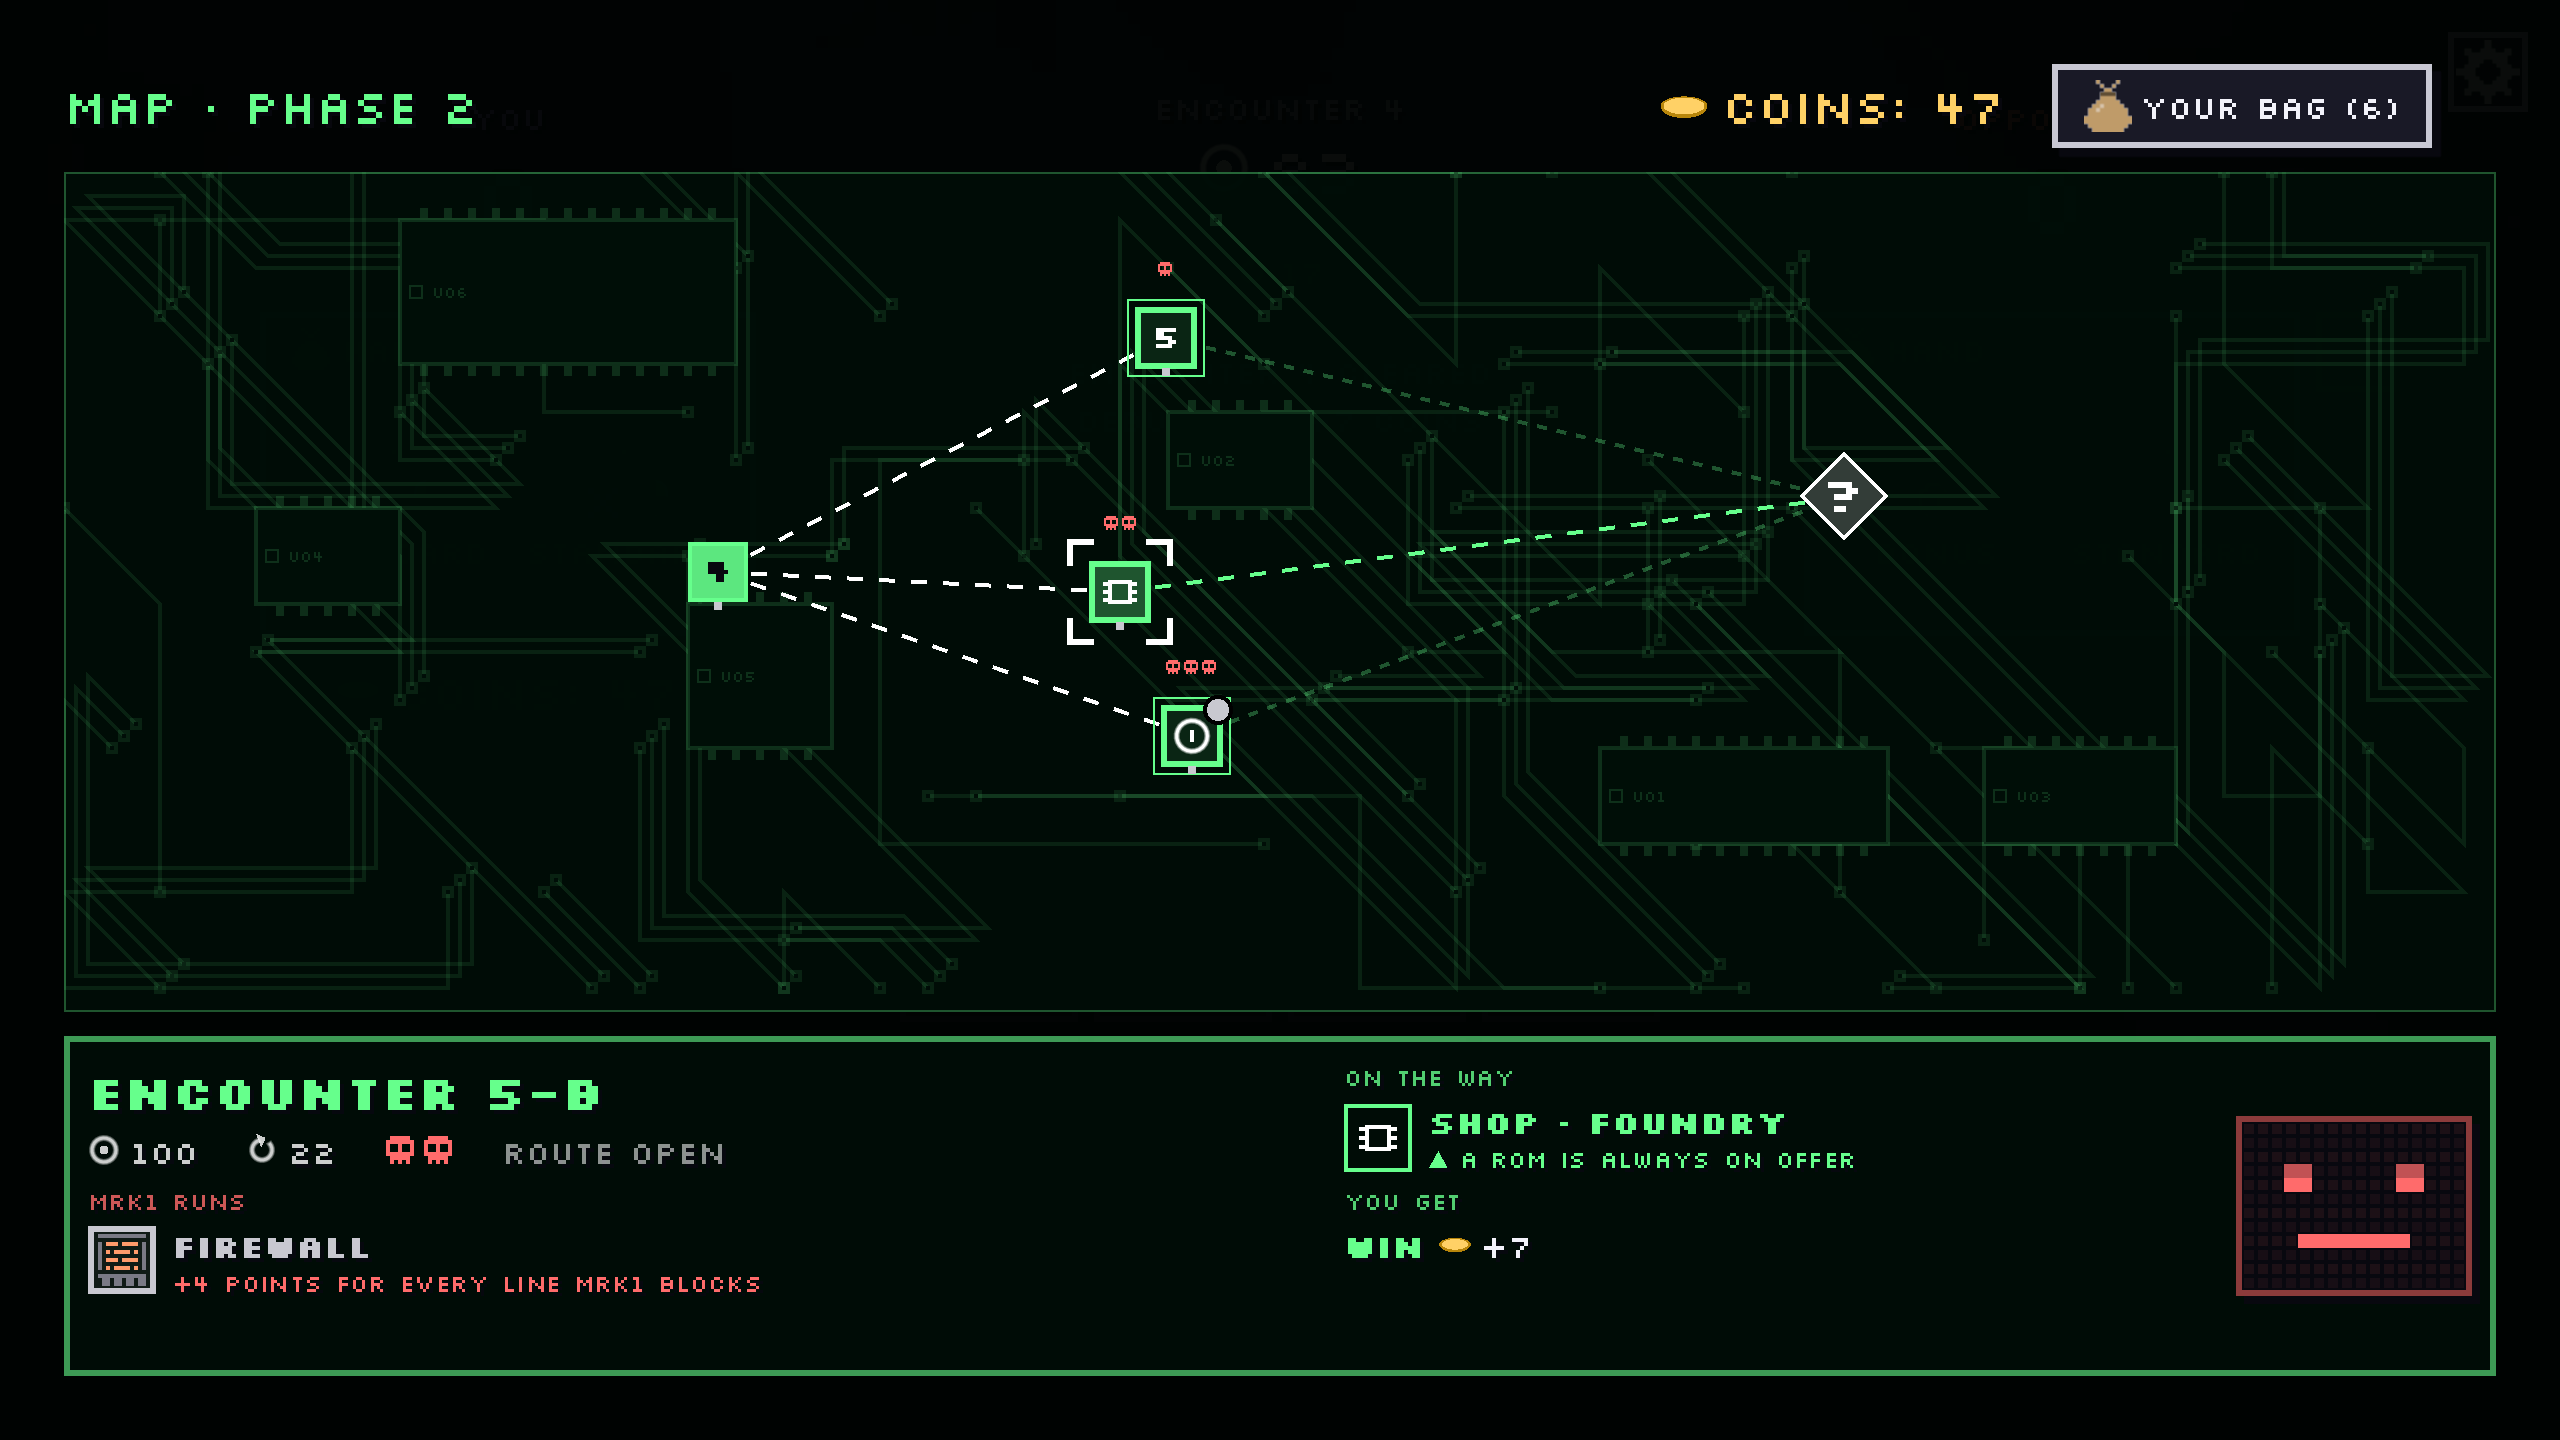
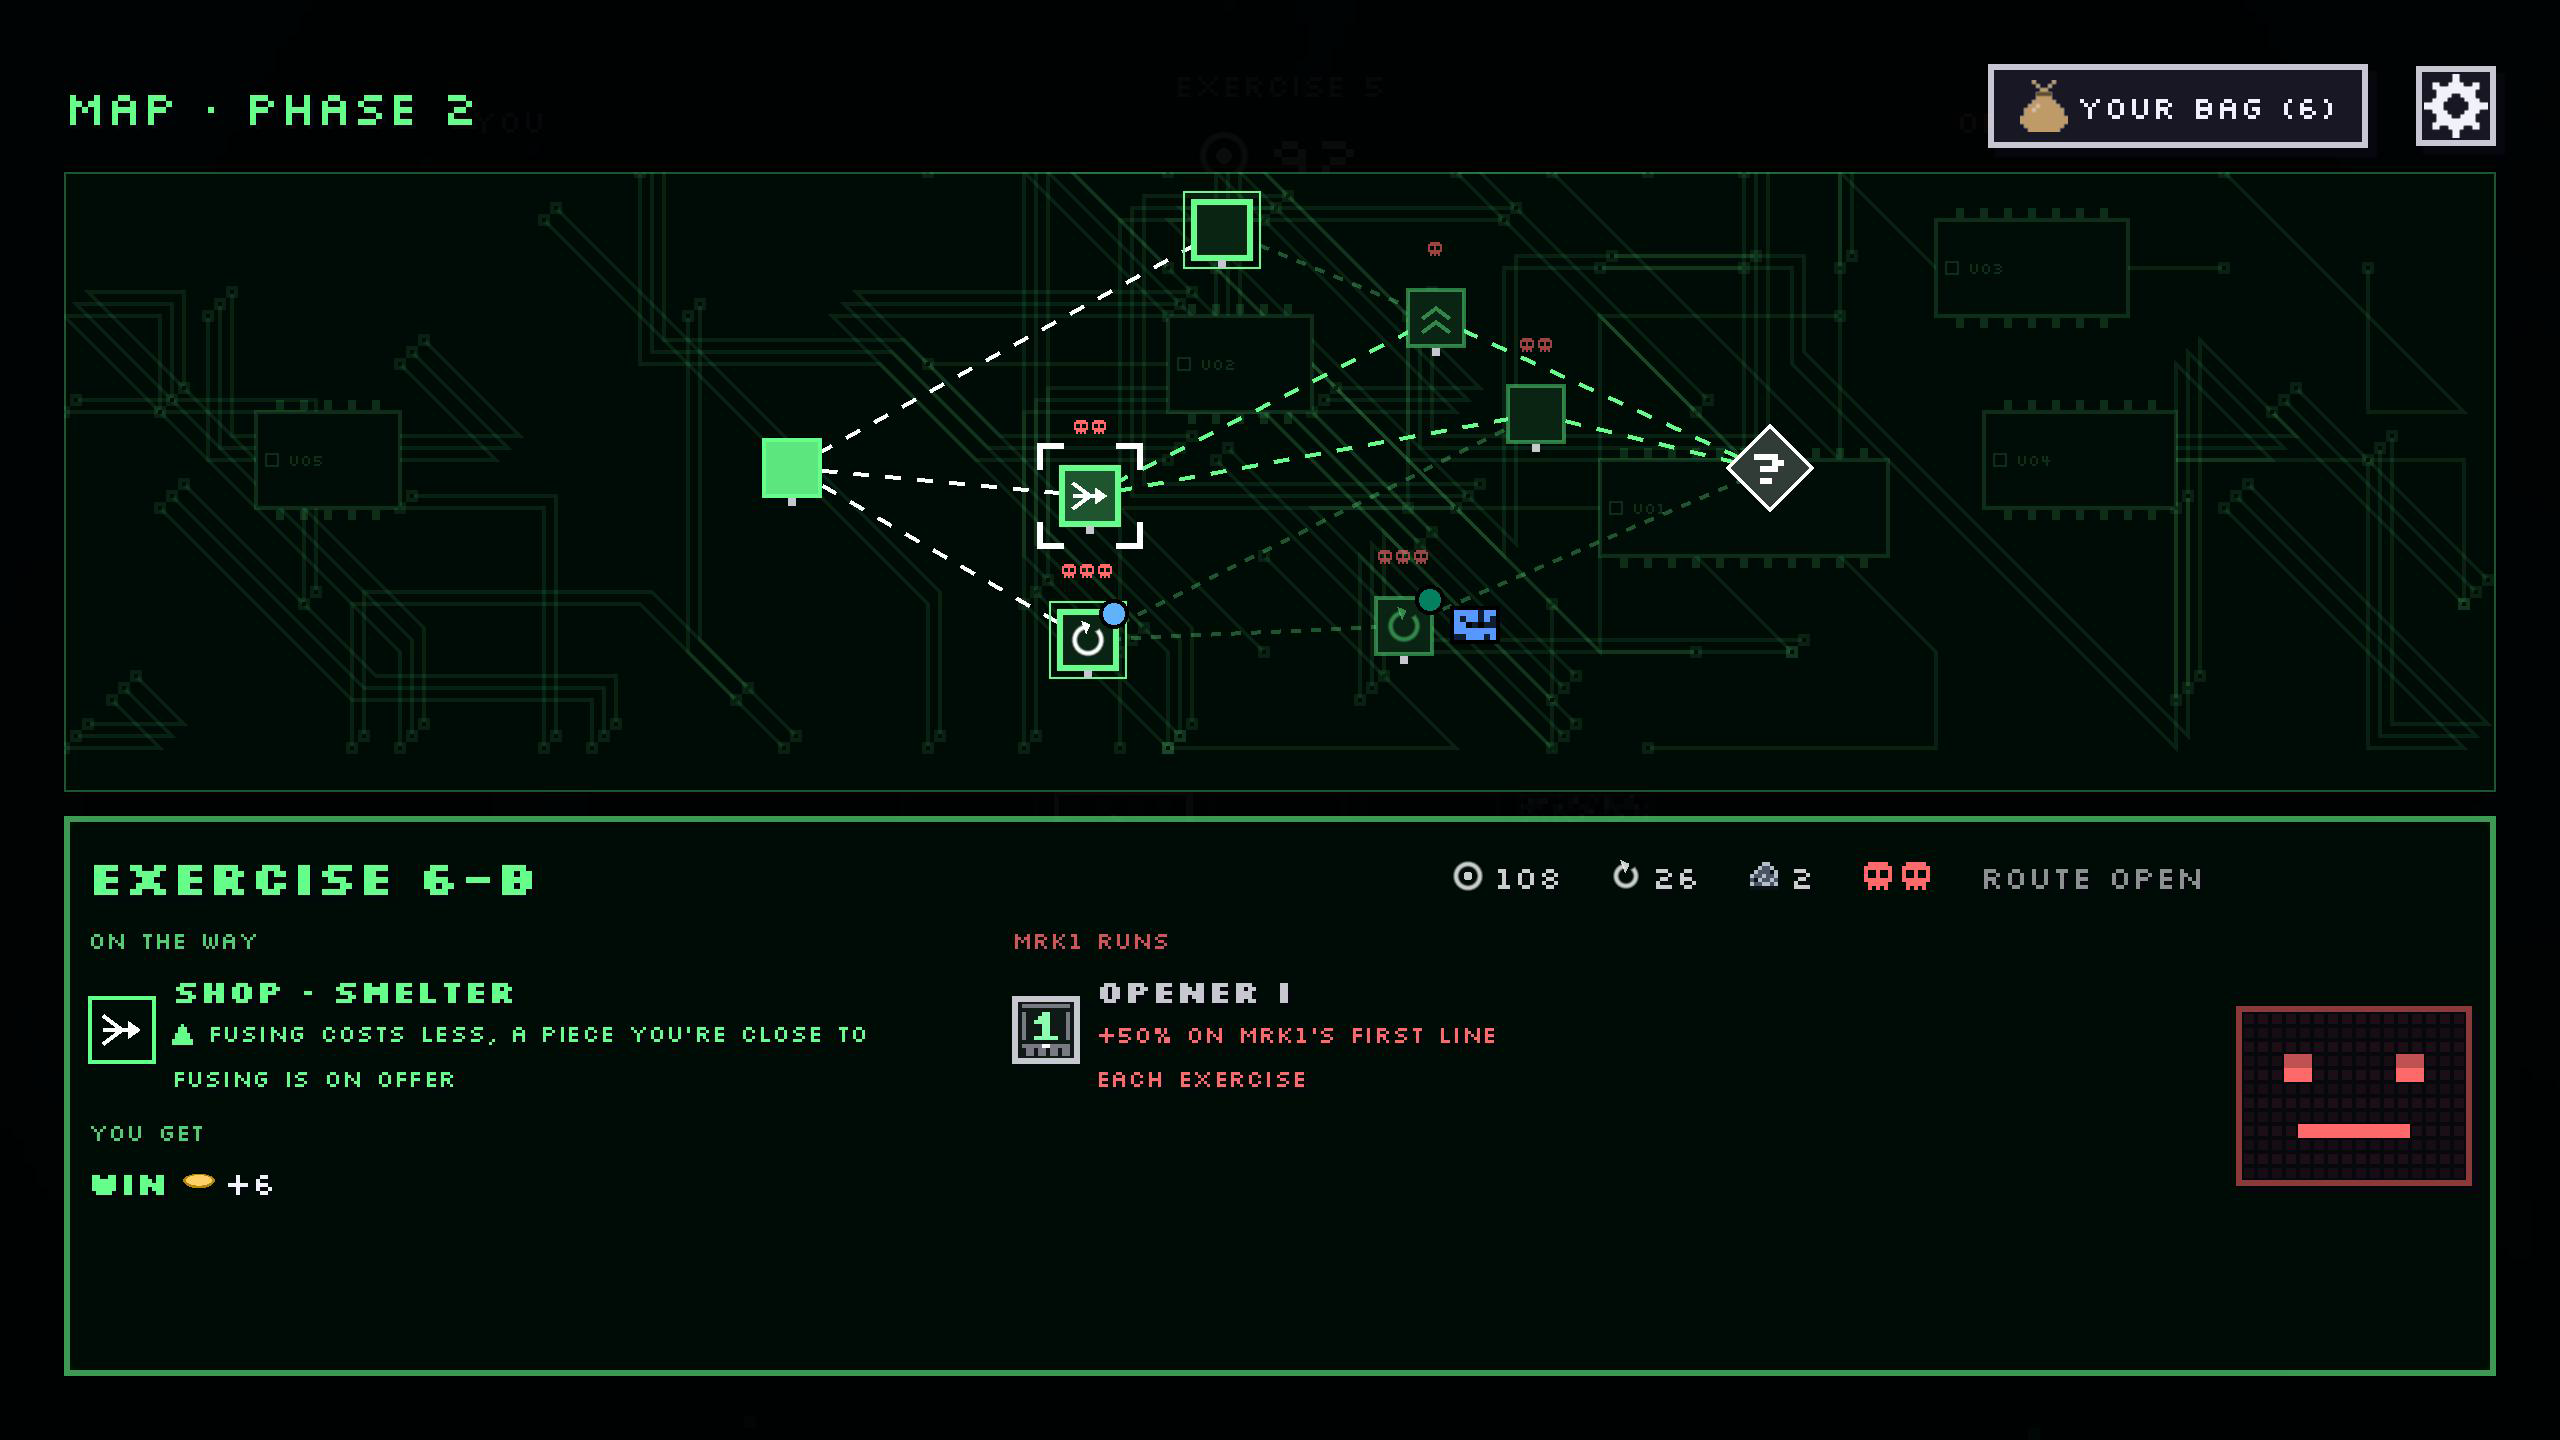
Update MRK1 screenshots to the new capture (#9)

diff --git a/mrk1/index.html b/mrk1/index.html
@@ -51,7 +51,7 @@
         <a href="../assets/mrk1-shot-1.png"><img src="../assets/mrk1-shot-1.png" alt="MRK1 screenshot: the route map between fights" loading="lazy"></a>
         <a href="../assets/mrk1-shot-2.png"><img src="../assets/mrk1-shot-2.png" alt="MRK1 screenshot: a boss banner, The Sprawl, over MRK1 grinning in costume" loading="lazy"></a>
         <a href="../assets/mrk1-shot-3.png"><img src="../assets/mrk1-shot-3.png" alt="MRK1 screenshot: MRK1 asking the player a question about itself" loading="lazy"></a>
-        <a class="wide" href="../assets/mrk1-shot-4.png"><img src="../assets/mrk1-shot-4.png" alt="MRK1 screenshot: a boss fight against The Warden, MRK1 gritting its teeth as a shield piece pays out" loading="lazy"></a>
+        <a class="wide" href="../assets/mrk1-shot-4.png"><img src="../assets/mrk1-shot-4.png" alt="MRK1 screenshot: a boss fight against The Warden, who cages one of the player's pieces" loading="lazy"></a>
       </div>
     </section>
 
